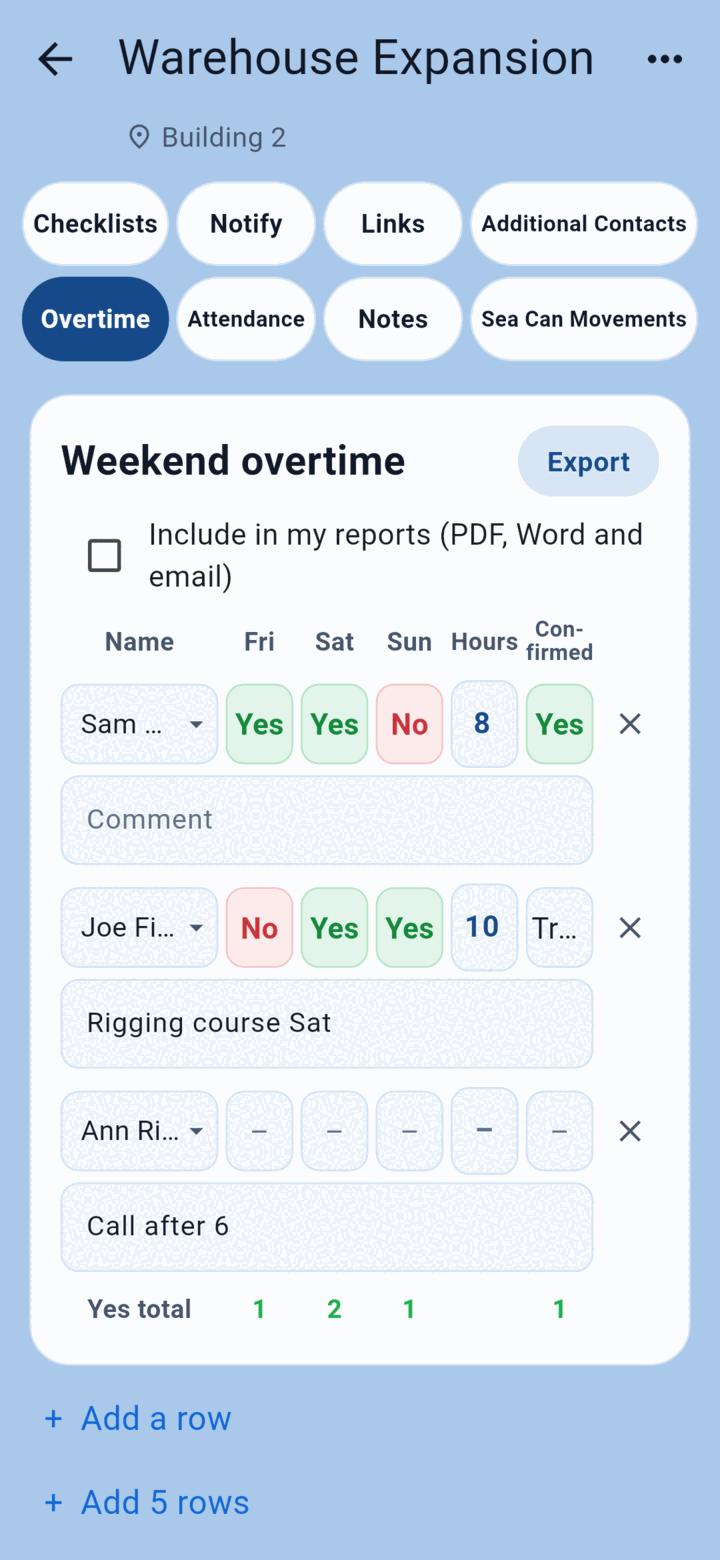
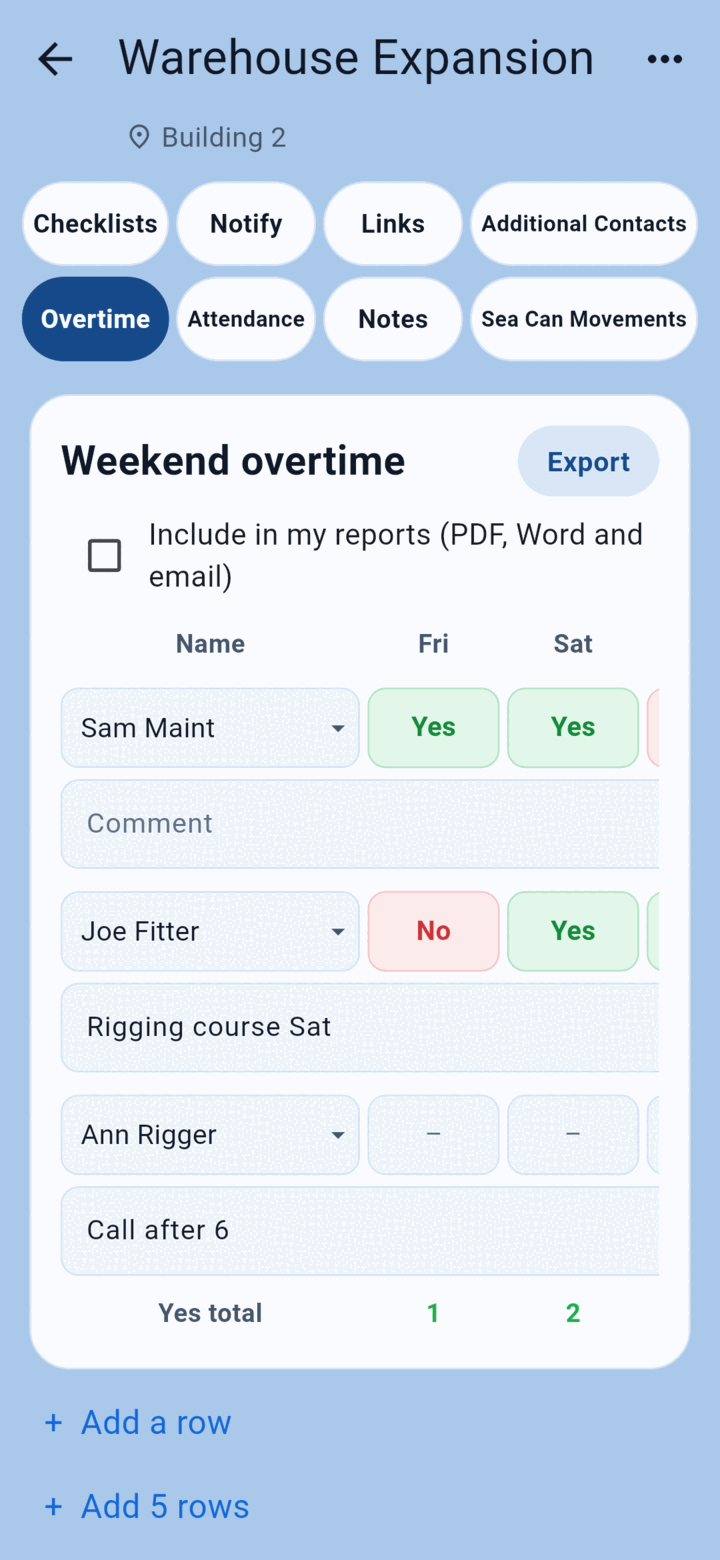
Overtime table slides sideways so every box shows in full (new app)
Claude-Session: https://claude.ai/code/session_01SU9pkUf5APMbUYgKfLLGdu

diff --git a/mobile/lib/screens/overtime_pane.dart b/mobile/lib/screens/overtime_pane.dart
@@ -11,6 +11,9 @@ import '../ui/theme.dart';
 const _pick = 'Select…', _blank = '–';
 const _nameFlex = 22, _cellFlex = 10;
 
+/// Below this width the overtime table slides sideways (wide enough for full names and "Training").
+const _tableMinWidth = 580.0;
+
 /// Hours box text to the saved value: '' when blank, the number for 1 to 10, null if not allowed.
 String? otHours(String typed) {
   final v = typed.trim();
@@ -68,15 +71,15 @@ Color _valueColour(String v) => v == Overtime.yes
     : C.text;
 
 Widget _answerText(String v, bool yesNo) => Text(
-      v,
-      maxLines: 1,
-      overflow: yesNo ? TextOverflow.visible : TextOverflow.ellipsis,
-      style: TextStyle(
-        fontSize: yesNo ? 16 : 15,
-        color: _valueColour(v),
-        fontWeight: v == Overtime.yes || _isRed(v) ? FontWeight.bold : FontWeight.normal,
-      ),
-    );
+  v,
+  maxLines: 1,
+  overflow: yesNo ? TextOverflow.visible : TextOverflow.ellipsis,
+  style: TextStyle(
+    fontSize: yesNo ? 16 : 15,
+    color: _valueColour(v),
+    fontWeight: v == Overtime.yes || _isRed(v) ? FontWeight.bold : FontWeight.normal,
+  ),
+);
 
 /// A table dropdown: Yes in green, No and AWOL in red. [yesNo] centres short answers.
 /// [arrow] false hides the little arrow, for narrow boxes.
@@ -121,9 +124,7 @@ Widget sheetDropdown(
               alignment: yesNo ? Alignment.center : Alignment.centerLeft,
               padding: const EdgeInsets.symmetric(vertical: 10),
               // Short answers shrink to fit a narrow box (e.g. "Training") instead of being cut off.
-              child: yesNo
-                  ? FittedBox(fit: BoxFit.scaleDown, child: _answerText(v, yesNo))
-                  : _answerText(v, yesNo),
+              child: yesNo ? FittedBox(fit: BoxFit.scaleDown, child: _answerText(v, yesNo)) : _answerText(v, yesNo),
             ),
         ],
         onChanged: (v) {
@@ -462,32 +463,51 @@ class _OvertimePaneState extends State<OvertimePane> {
                     ),
                   ),
                 ),
-                _row([
-                  _label('Name'),
-                  _label('Fri'),
-                  _label('Sat'),
-                  _label('Sun'),
-                  _label('Hours'),
-                  // Split over two lines so it can be read in the narrow column.
-                  const FittedBox(
-                    fit: BoxFit.scaleDown,
-                    child: Text(
-                      'Con-\nfirmed',
-                      textAlign: TextAlign.center,
-                      style: TextStyle(fontSize: 13, height: 1.05, color: C.grey, fontWeight: FontWeight.bold),
+                // The table slides sideways when the phone is narrow, so every box shows in full.
+                LayoutBuilder(
+                  builder: (context, box) => SingleChildScrollView(
+                    scrollDirection: Axis.horizontal,
+                    child: SizedBox(
+                      width: box.maxWidth < _tableMinWidth ? _tableMinWidth : box.maxWidth,
+                      child: Column(
+                        crossAxisAlignment: CrossAxisAlignment.stretch,
+                        children: [
+                          _row([
+                            _label('Name'),
+                            _label('Fri'),
+                            _label('Sat'),
+                            _label('Sun'),
+                            _label('Hours'),
+                            // Split over two lines so it can be read in the narrow column.
+                            const FittedBox(
+                              fit: BoxFit.scaleDown,
+                              child: Text(
+                                'Con-\nfirmed',
+                                textAlign: TextAlign.center,
+                                style: TextStyle(
+                                  fontSize: 13,
+                                  height: 1.05,
+                                  color: C.grey,
+                                  fontWeight: FontWeight.bold,
+                                ),
+                              ),
+                            ),
+                          ]),
+                          for (final r in ot.rows) _line(r, names, key: ObjectKey(r)),
+                          // Totals sit under the table; after adding rows the screen scrolls here.
+                          KeyedSubtree(
+                            key: _lastRow,
+                            child: _row([
+                              _label('Yes total'),
+                              for (var d = 0; d < 3; d++) _label('${ot.yesCount(d)}', color: C.green),
+                              const SizedBox(),
+                              _label('${ot.confirmedCount()}', color: C.green),
+                            ]),
+                          ),
+                        ],
+                      ),
                     ),
                   ),
-                ]),
-                for (final r in ot.rows) _line(r, names, key: ObjectKey(r)),
-                // Totals sit under the table; after adding rows the screen scrolls here.
-                KeyedSubtree(
-                  key: _lastRow,
-                  child: _row([
-                    _label('Yes total'),
-                    for (var d = 0; d < 3; d++) _label('${ot.yesCount(d)}', color: C.green),
-                    const SizedBox(),
-                    _label('${ot.confirmedCount()}', color: C.green),
-                  ]),
                 ),
                 if (p.crew.isEmpty)
                   const Padding(

diff --git a/mobile/test/projects_test.dart b/mobile/test/projects_test.dart
@@ -496,6 +496,9 @@ void main() {
       addTearDown(() => tester.binding.setSurfaceSize(null));
       await tester.pumpWidget(app(ProjectScreen(projectId: p.id, initialTab: ProjectTab.overtime)));
       await tester.pump();
+      // The table is wider than this screen: slide it so the × buttons show.
+      await tester.ensureVisible(find.byTooltip('Remove row').at(1));
+      await tester.pumpAndSettle();
       await tester.tap(find.byTooltip('Remove row').at(1));
       await tester.pumpAndSettle();
       await tester.tap(find.text('Remove'));
